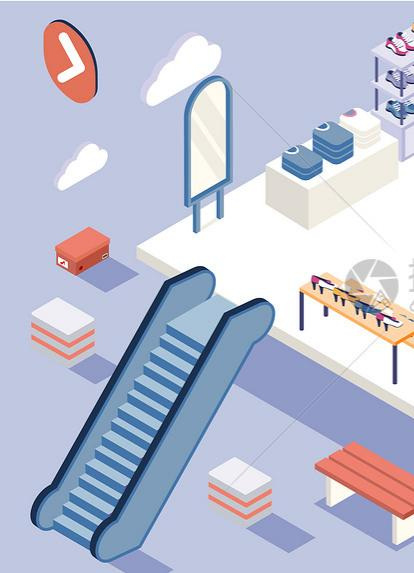
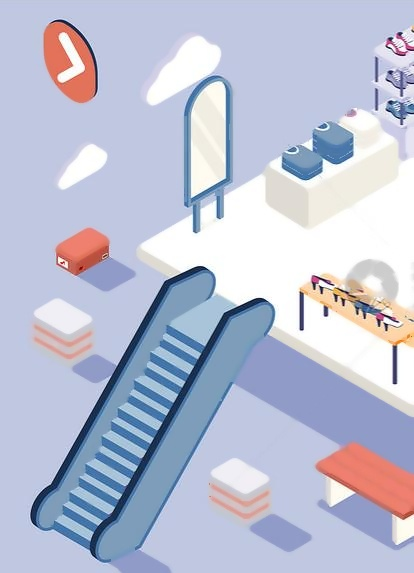
chore(assets): B 线补丁 —— 首页两张 jpg 去水印 + 登录稿取景调整
- Mall-Section-1/2.jpg：去水印（Bin 28657 → 45525 / 37552 → 60353 bytes，同名覆盖）
- LoginPage.html：.brand-fig 取景 center → top（+ v6.1 注释）
- docs/美化/shots3/：补两张登录稿取证图 login-draft-v6-login.png / -register.png

⚠ 本笔是 B 笔（PR #75 已合并）的遗留补丁，与 C 笔（PR #76）不同主题，故分开提交、分开 PR。

diff --git a/docs/美化/pages/LoginPage.html b/docs/美化/pages/LoginPage.html
@@ -203,20 +203,60 @@ input::placeholder{color:var(--ink-3)}
              font-family:var(--font-display);font-size:var(--d1);font-weight:var(--fw-med);
              line-height:1.12;letter-spacing:-.03em;color:var(--ink)}
 .brand-sub{margin-top:var(--s4);max-width:24em;font-size:var(--fs-sm);line-height:1.85;color:var(--ink-2)}
-/* 品牌大图（用户最低清单点名）；占位用 --img，落地时换成实拍图。
+/* 品牌大图（用户最低清单点名）。
    ⚠ 封 `max-width:440px`：16:9 铺满 46% 栏（566px）时有 318px 高，加上下方事实表
-   在 1440×900 下会把整栏顶出首屏（截图抓到末行被切）。 */
+   在 1440×900 下会把整栏顶出首屏（截图抓到末行被切）。
+   ── v6（2026-10-07，用户点名）─────────────────────────────────────────────
+   这一格从 `--img` 灰底占位换成**真图**：两张 `Mall-Section-*.jpg`（商城等距插画，
+   源文件在 `Mall-management-server/src/main/resources/static/img/`，这里用与上面三张
+   样式表**同源**的相对路径，稿子仍是自足的 —— 不需要起后端）。
+   **登录态一张、注册态一张**：切换靠 `go()` 写在 `body[data-state]` 上（见脚本段），
+   不是给这一格单独加类 —— 两态的判据与 `.ctabs` 高亮**同一个** `tabKey`（login/phone
+   归登录、register/success 归注册），只写一处。
+   ⚠ **格子长宽一个数都没改**（这条是测出来的，不是保守）：实测 `.brand` 自然高
+   **781.6px**、而 1440×900 下可用高 854 ⇒ 只剩 **72.4px** 余量；两张原图是**竖构图**
+   （约 3:4）、本格是 16:9 ⇒ 只能 `cover` 裁成横带。想把整张竖图放进来就得把格子改为
+   3:4，那要多 **335px** —— 直接把左栏顶出首屏（正是上面那条注释警告的事）。
+   ⚠ 底仍留 `--img`：图没加载出来时是一块正常的灰底，不会露出白洞。
+   ── v6.1（2026-10-07）：去水印 + 取景改「靠顶」────────────────────────────
+   ⚠ **两张源图本就是「我图网」的付费素材预览图、带站方水印**（这是既有事实：
+   它们早就用在跑着的 `LoginPage.vue` 的 `.img-section` 上，不是本笔放进来的）。
+   处理分两步，都落在**图片文件**那一侧，这里的格子尺寸**一个数没改**：
+     ① **细笔画**：用「平坦区中值」扫了一遍（局部亮度极差 ≤110、且修正幅度 ≤90 才动手）。
+        判据是「画里真边线的局部极差 = 它自己的对比度（几十上百）」，而水印细笔画压在
+        纯色上只有 ~70 ⇒ 可分离；大块软阴影是「大块」、中值等于局部值本身 ⇒ 原样保留。
+        两张各回填约 **22%** 像素。原图备份在工具链 `美化/wm-backup/`。
+     ② **大块遮挡**：`Mall-Section-1.jpg` 上另有一枚**半透明灰盘 logo**（与左上角那枚
+        橙色徽标同形，约 52×44px，位于 y257-301）—— 它压在鞋架与木桌**上面**，属
+        「大块遮挡」而非细笔画，中值法**去不掉**（要抹它得凭空重建底下的木桌纹理）。
+        ⇒ 取景由 `center` 改 `top`：`cover` 下 `center` 露原图 y170-403、**正好含这枚盘**；
+        `top` 只露 y0-233（另一张 y0-240）⇒ 盘与下半部字形**一并落在画框外**。
+   ⚠ 代价（照实记）：`top` 比 `center` 少露原图下半部，构图比居中**偏空**一点。
+      若不接受这个取景，就得**换图** —— 那枚水印盘无法就地抹掉。 */
 .brand-fig{margin-top:var(--s6);width:100%;max-width:440px;aspect-ratio:16/9;
-           border:1px solid var(--line);border-radius:var(--r2);background:var(--img);
-           display:flex;align-items:center;justify-content:center;
-           color:var(--ink-3);font-size:var(--fs-xs);letter-spacing:.08em}
+           border:1px solid var(--line);border-radius:var(--r2);
+           background-color:var(--img);background-size:cover;background-position:top;
+           background-image:url("../../../Mall-management-server/src/main/resources/static/img/Mall-Section-2.jpg")}
+/* 注册态换另一张。⚠ `body` 上没有 `data-state` 时 = 登录态（默认视图就是登录，见 markup）。 */
+body[data-state="register"] .brand-fig{
+  background-image:url("../../../Mall-management-server/src/main/resources/static/img/Mall-Section-1.jpg")}
 .facts{margin-top:var(--s6);border-top:1px solid var(--line)}
 .facts>div{display:flex;gap:var(--s5);align-items:baseline;padding:var(--s3) 0;border-bottom:1px solid var(--line)}
 .facts dt{flex:none;width:3.5em;font-size:var(--fs-xs);color:var(--ink-3)}
 .facts dd{font-size:var(--fs-sm);color:var(--ink-2)}
 
 /* ── 右栏：表单面 ─────────────────────────────────────────────────────────── */
-.pane{padding:var(--s6) var(--s7) var(--s8)}
+/* ⚠ v6（2026-10-07，用户点名）：「注册态整页可滑动」的**总收紧**从这里开始。
+   实测（`美化/measure-login-draft.mjs`，1440×900、`--hide-scrollbars`）：
+     登录态 docH **916**（溢 16px）、注册态 docH **1131**（溢 **231px**）—— 用户看到的是后者。
+   根因：`.auth` 是 `min-height:calc(100vh - 46px)`（46 = 顶部预览条）⇒ **右栏内容比它高多少就滚多少**；
+   而注册面 5 个字段比登录面 2 个字段**高 215px**（`.stage .page.on` 841.4 vs 626.4）。
+   目标 = `.auth ≤ 854`（⇒ docH ≤ 900，**两态都不滚**）。分两档收：
+     · **全局档**（本段 `.pane` 下内距 + `.form-shell` 上内距 + `.stage` 上外边距，**两态同值**）；
+     · **注册面专属档**（只动 `.page[data-page="register"]` 内部的东西，见下面「注册面专属」段）。
+   ⚠ `.form-shell` / `.ctabs` / `.stage` **绝不允许按态分叉** —— 「两态 Tab 位置逐像素相同」
+   是 v4 的主修项，按态改这三个 = 把它拆回去。 */
+.pane{padding:var(--s6) var(--s7) var(--s6)}
 .pane-top{display:flex;justify-content:space-between;font-size:var(--fs-xs);color:var(--ink-3)}
 .pane-top a{padding:var(--s1) 0}
 .pane-top a:hover{color:var(--brand-ink)}
@@ -224,8 +264,9 @@ input::placeholder{color:var(--ink-3)}
 /* ⚠ **外壳固定**（v4 主修项）：`margin:0 auto` —— 不是 `margin:auto`。
    双向 `auto` 会让每一态各自垂直居中，短态（登录）浮中间、长态（注册）顶到上边，
    容器的上边缘在两态之间跳 —— 那正是用户看到的「像两个不同的页」。
-   `.stage` 只负责换内容，容器的上/左/宽与 Tab 位置逐像素不动。 */
-.form-shell{margin:0 auto;width:100%;max-width:392px;padding-top:var(--s7)}
+   `.stage` 只负责换内容，容器的上/左/宽与 Tab 位置逐像素不动。
+   ⚠ v6：`padding-top` `--s7`(48) → `--s5`(24) —— 只收高度；两态同值 ⇒ 上面那条不变量不动。 */
+.form-shell{margin:0 auto;width:100%;max-width:392px;padding-top:var(--s5)}
 
 /* 页面级 Tab：登录 / 注册 */
 .ctabs{display:flex;gap:var(--s5);border-bottom:1px solid var(--line-2)}
@@ -234,7 +275,8 @@ input::placeholder{color:var(--ink-3)}
 .ctabs button:hover{color:var(--ink-2)}
 .ctabs button.on{color:var(--ink);font-weight:var(--fw-med);border-bottom-color:var(--brand)}
 
-.stage{margin-top:var(--s6)}
+/* ⚠ v6：`--s6`(32) → `--s5`(24)，同 `.form-shell`（两态同值）。 */
+.stage{margin-top:var(--s5)}
 @keyframes fadein{from{opacity:0}to{opacity:1}}
 .page{display:none}
 .page.on{display:block;animation:fadein .18s ease}
@@ -306,6 +348,25 @@ h1.t{font-family:var(--font-display);font-size:var(--d2);font-weight:var(--fw-me
 .strength i.on{background:var(--brand)}
 .tip{margin-top:var(--s4);font-size:var(--fs-xs);color:var(--warning)}
 
+/* ⚠ v6（2026-10-07，用户点名）：「注册面专属档」的总收紧。
+   注册面比登录面高 215px，单靠上面那三处全局档收不到 854 —— 登录面只有 2 个字段、注册面有 5 个。
+   **只动注册面**：选择器全部冠 `.page[data-page="register"]`（特异性 0,2,0 稳压 0,1,0）
+   ⇒ 登录面逐像素不变，用户那句「登录那边页面固定」被原样保住。
+   收的六处**全是间距**，字号与控件尺寸（46px 输入框 / 19px Tab / 12px 标签）**一个没动** ——
+   收的是字段之间的空气，不是可读性：
+     .f          margin-top        --s5(24) → --s2(8)
+     .f>label    margin-bottom     --s2(8)  → --s1(4)
+     .err        min-height+margin 16+4     → 8+0    （错误行**仍预留**高度 ⇒ 报错不跳版）
+     .btn-block  margin-top        --s6(32) → --s5(24)
+     .tip        margin-top        --s4(16) → --s2(8)
+     .swap       margin+padding    32+24    → 16+16  （注册面最后一块，收它不扰上面节奏） */
+.page[data-page="register"] .f{margin-top:var(--s2)}
+.page[data-page="register"] .f>label{margin-bottom:var(--s1)}
+.page[data-page="register"] .err{min-height:8px;margin-top:0}
+.page[data-page="register"] .btn-block{margin-top:var(--s5)}
+.page[data-page="register"] .tip{margin-top:var(--s2)}
+.page[data-page="register"] .swap{margin-top:var(--s4);padding-top:var(--s4)}
+
 /* 注册成功面 */
 .done h1{font-family:var(--font-display);font-size:var(--d2);font-weight:var(--fw-med);line-height:1.25}
 .done p{margin-top:var(--s4);font-size:var(--fs-sm);line-height:1.85;color:var(--ink-2)}
@@ -346,7 +407,10 @@ h1.t{font-family:var(--font-display);font-size:var(--d2);font-weight:var(--fw-me
     <h2 class="brand-claim">让挑选与交付，<br>各归其位。</h2>
     <p class="brand-sub">一个账户同时管着买家与卖家两侧：浏览、下单、发货、对账，都在同一处。</p>
 
-    <div class="brand-fig">品牌大图　16 : 9</div>
+    <!-- v6：品牌大图由 `--img` 灰底占位换成**真图**（两张 Mall-Section 商城插画，
+         登录态 / 注册态各一张，见样式块 `.brand-fig` 段）。原来是居中一行文字，
+         现在换成图 ⇒ 补 `role="img"` + `aria-label`，读屏仍有名字。 -->
+    <div class="brand-fig" role="img" aria-label="商城场景插画"></div>
 
     <dl class="facts">
       <div><dt>商品</dt><dd>目录、库存、上下架</dd></div>
@@ -543,6 +607,10 @@ function go(key) {
   /* 顶部 Tab 与当前态联动：登录态（含手机号）高亮「登录」，注册态（含成功面）高亮「注册」 */
   const tabKey = (key === 'login' || key === 'phone') ? 'login' : 'register'
   document.querySelectorAll('.ctabs button').forEach(b => b.classList.toggle('on', b.dataset.tab === tabKey))
+  /* v6：左栏品牌大图跟着两态换图 —— `.brand-fig` 的 `background-image` 由 `body[data-state]` 选中。
+     复用上面**同一个** `tabKey`（login/phone 归登录、register/success 归注册），不另立判据。
+     首屏不调 `go()` ⇒ `body` 上没有 `data-state`，落在 `.brand-fig` 的基线上 = 登录态那张（对）。 */
+  document.body.dataset.state = tabKey
   window.scrollTo(0, 0)
 }
 bar.querySelectorAll('button[data-page]').forEach(b => b.addEventListener('click', () => go(b.dataset.page)))
